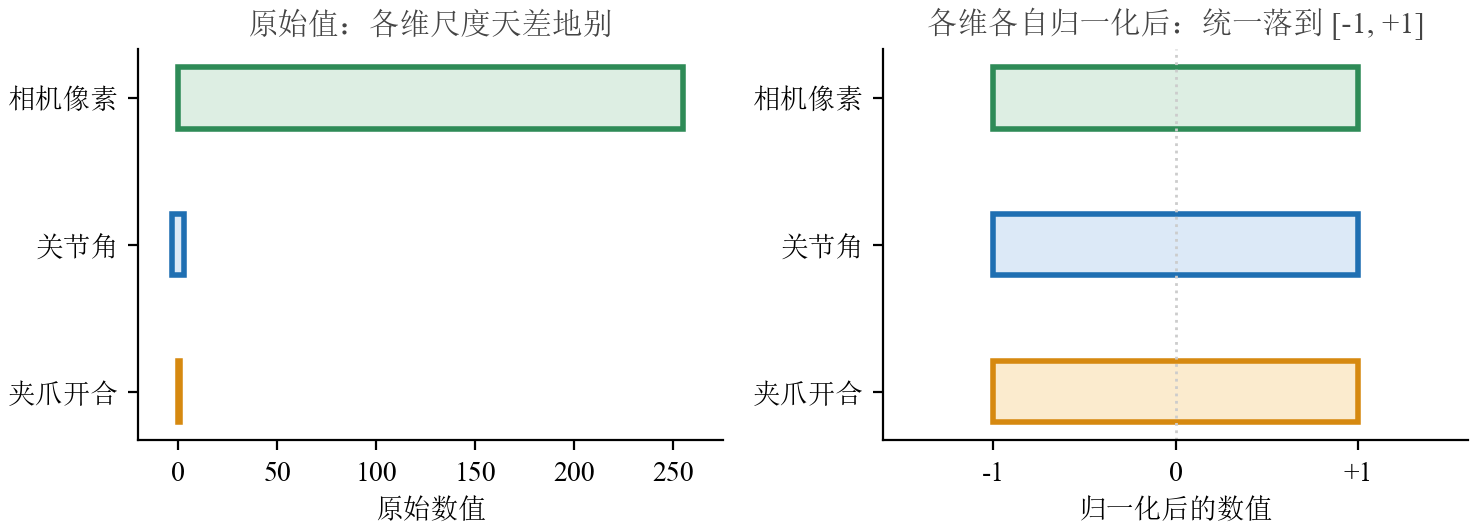
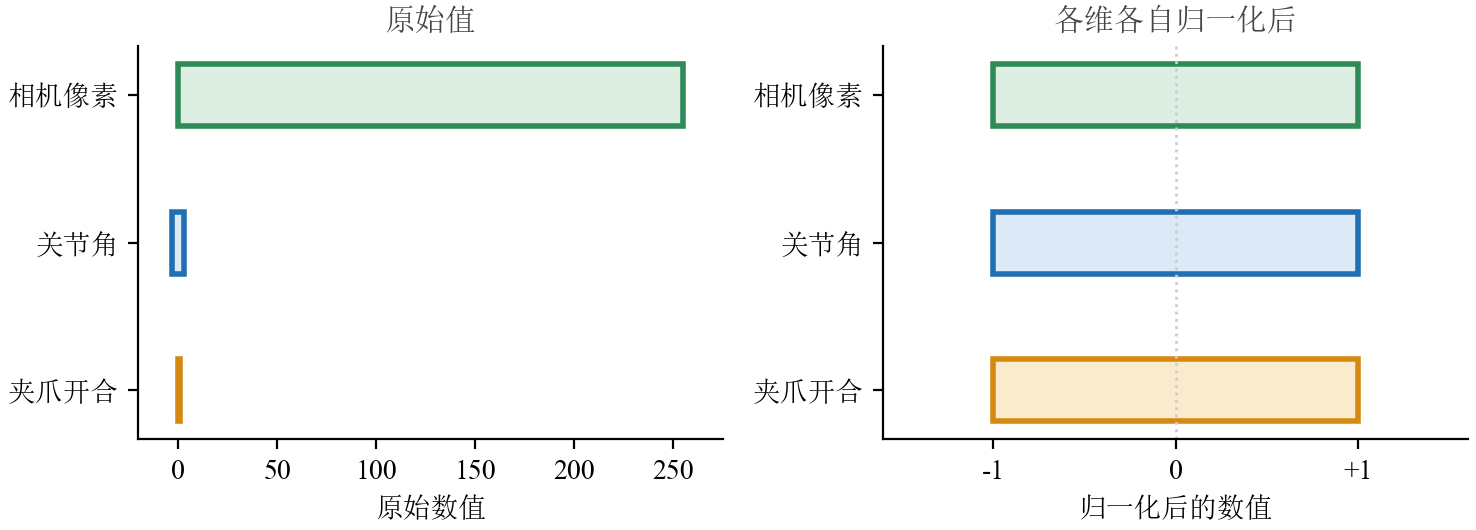
style(figures): 清完剩余不合规项，含删掉一张会引争议的排名图
teleop_tradeoff_map 整张删除。它把二十来个具体方法按我们自己的判断摆成散点，
等于公开给每个项目定坐标——图注自己都写着"坐标为相对位置示意，不是量化打分"，
但读者不会当示意看，被点名的团队完全可以说我们摆错了。2.6 节本就有一张十二行的
方法对比表，字段是定性档位而非排名，已经承担了同样的职责。正文改写成从表读得出
的说法（"表里没有哪一行同时占住在回路与极高便携"），读者可自行核对。

其余八张逐张渲出来看，清掉：
- 解释性语句 4 处：tradeoff-map 两块灰字、long-horizon 两句接缝说明
- 栏名里的解读：normalization-ranges 两栏改成纯栏名（去掉"天差地别"等）
- 彩色文字统一成黑：two_axes_map、alternating_ca_sa、interpolation_paths、
  flow_matching_path、normalization_ranges

判定合规未动：libero-success-curve（三段色带是分段名）、mismatch-failures
（两栏标题是栏名）、flow-matching-path（全是量名与公式）、long-horizon 的
勾叉红绿（评分色，承载意义）

收尾：D6 过、压字 0、讲8–16 图片引用零死链

diff --git a/assets/figures/render_diagrams.py b/assets/figures/render_diagrams.py
@@ -789,8 +789,6 @@ def long_horizon_paradigms():
             label(ax, cx + dx, y0 + 0.1325, name, INK, 10)
         # 两个策略之间是一道接缝：不是同一个模型，交接处要单独想办法。
         ax.plot([cx, cx], [y0 + 0.098, y0 + 0.168], color=RED, linewidth=1.4, linestyle=(0, (3, 2)))
-        label(ax, cx, y0 + 0.070, "两个模型，中间有接缝" if not with_gate else "接缝靠输入级适配接住",
-              RED, 10)
 
     cell(0.010, 0.575, "(a) 朴素端到端 VLA", (True, False, False),
          lambda cx, y0: one_policy(cx, y0, with_gate=False))
@@ -946,8 +944,8 @@ def normalization_ranges():
     for i, (name, lo, hi, color) in enumerate(rows):
         left.barh(i, hi - lo, left=lo, height=0.42, color=FILL[color], edgecolor=color, linewidth=2)
         right.barh(i, 2.0, left=-1.0, height=0.42, color=FILL[color], edgecolor=color, linewidth=2)
-    for axis, title, xlabel in ((left, "原始值：各维尺度天差地别", "原始数值"),
-                                (right, "各维各自归一化后：统一落到 [-1, +1]", "归一化后的数值")):
+    for axis, title, xlabel in ((left, "原始值", "原始数值"),
+                                (right, "各维各自归一化后", "归一化后的数值")):
         axis.set_yticks(range(len(rows)))
         axis.set_yticklabels([r[0] for r in rows], fontsize=10)
         axis.set_title(title, fontsize=11, color="#444444")
@@ -995,67 +993,6 @@ def scale_error_symptoms():
     right.text(20, 0.62, "实际执行", ha="center", fontsize=10, color=RED)
     fig.tight_layout()
     save(fig, "lecture08", "fig08-3-scale-error-symptoms")
-
-
-# ── 第9讲 2.1：采集方法的权衡地图 ───────────────────────────────────────
-# 2.1 那张表给的是逐字段属性；图要给的是**相对位置**——二十来个方法落在平面上，
-# 从左上到右下连成一条带，"越可执行越不可规模化"这件事才看得见。
-# 两条轴都取自那张表自己的列（机器人是否在回路 / 便携·可规模化）。
-def teleop_tradeoff_map():
-    fig, ax = plt.subplots(figsize=(7.6, 5.0))
-
-    # (x=机器人在回路的程度, y=可规模化程度, 名字, 标签相对点的偏移)
-    groups = [
-        (BLUE, "真机数据", [
-            (9.45, 1.5, "KineDex", (0.16, 0.00)), (9.05, 0.6, "KineSoft", (0.16, 0.00)),
-            (9.30, 2.6, "Mobile ALOHA", (0.16, 0.00)), (8.35, 3.2, "U-Arm（异构主从）", (0.16, 0.00)),
-            (7.95, 2.1, "TeleMoMa", (-0.16, 0.00))]),
-        (ORANGE, "通用接口遥操作", [
-            (7.35, 3.9, "Bunny-VisionPro", (-0.16, 0.00)),
-            (7.05, 4.8, "Open-TeleVision", (-0.16, 0.00)),
-            (6.60, 5.5, "OpenTeach", (0.16, 0.00)), (6.15, 4.4, "手柄 joycon", (-0.16, 0.00)),
-            (5.75, 6.4, "RoboTurk 手机众包", (0.16, 0.00))]),
-        (GREEN, "人类代理数据", [
-            (5.05, 5.6, "PIKA", (0.16, 0.00)), (4.75, 7.2, "UMI", (-0.16, 0.00)),
-            (4.30, 7.9, "FastUMI", (0.16, 0.00)), (4.10, 6.4, "AnyTeleop", (0.16, 0.00)),
-            (3.70, 7.0, "ARCap", (-0.16, 0.00)), (3.95, 5.2, "DOGlove", (-0.16, 0.00)),
-            (3.30, 5.9, "U-Arm Humanoid", (-0.16, 0.00)),
-            (2.95, 7.6, "HumanPlus", (-0.16, 0.00))]),
-        (GREY, "无机器人数据", [
-            (1.75, 8.9, "In-N-On", (0.16, 0.00)), (1.15, 9.6, "Ctrl-World", (0.16, 0.00))]),
-    ]
-
-    # 那条负相关带：从左上（轻、可规模化）到右下（重、可执行）。
-    ax.fill_between([0.4, 11.8], [10.6, 0.6], [8.4, -1.6], color="#F2F2F2", zorder=0)
-    ax.text(2.6, 3.1, "越往右下：轨迹越能直接执行，\n但越贵、越不便携\n\n"
-                      "越往左上：越轻越能规模化，\n但越需要重定向与后处理",
-            fontsize=10, color="#888888", ha="center", va="center", zorder=1)
-
-    for color, name, points in groups:
-        ax.scatter([p[0] for p in points], [p[1] for p in points], s=46,
-                   facecolor=FILL[color], edgecolor=color, linewidth=1.6, zorder=3)
-        for x, y, text, (dx, dy) in points:
-            ax.text(x + dx, y + dy, text, fontsize=10, color=color, zorder=4,
-                    ha="left" if dx > 0 else "right", va="center")
-        ax.scatter([], [], s=46, facecolor=FILL[color], edgecolor=color, linewidth=1.6, label=name)
-
-    # 本课入口单独高亮：同一张图上标出"我们从哪儿进"。
-    ax.scatter([8.75], [1.9], s=190, facecolor=FILL[RED], edgecolor=RED, linewidth=2.2,
-               marker="*", zorder=5)
-    ax.annotate("SO-101 主从臂（本课入口）", xy=(8.62, 1.9), xytext=(6.5, 1.1),
-                fontsize=10, color=RED, ha="right", va="center", zorder=5,
-                arrowprops=dict(arrowstyle="->", color=RED, linewidth=1.2))
-
-    ax.set_xlabel("机器人在回路的程度（左：完全不在　→　右：全程在回路）", fontsize=10)
-    ax.set_ylabel("便携 / 可规模化程度", fontsize=10)
-    ax.set_xlim(0.3, 11.8); ax.set_ylim(-0.4, 10.6)
-    ax.set_xticks([]); ax.set_yticks([])
-    ax.legend(fontsize=10, frameon=False, ncol=4, loc="upper center",
-              bbox_to_anchor=(0.5, 1.10), handletextpad=0.3, columnspacing=1.1)
-    for side in ("top", "right"):
-        ax.spines[side].set_visible(False)
-    fig.tight_layout()
-    save(fig, "lecture09", "fig09-2-teleop-tradeoff-map")
 
 
 # ── 第9讲 3.1：LeRobot 的分层与 lerobot-record 穿过哪几层 ─────────────────
@@ -1531,14 +1468,14 @@ def interpolation_paths():
     ax.scatter([0, 1], [a, b], s=58, facecolor=FILL[RED], edgecolor=RED, linewidth=2.2, zorder=6)
     t = 0.55
     ax.scatter([t], [(1 - t) * a + t * b], s=58, color=RED, zorder=6)
-    ax.text(-0.04, a, "$z_0$", ha="right", va="center", fontsize=11, color=RED)
-    ax.text(1.04, b, "$z_1$", ha="left", va="center", fontsize=11, color=RED)
+    ax.text(-0.04, a, "$z_0$", ha="right", va="center", fontsize=11, color=INK)
+    ax.text(1.04, b, "$z_1$", ha="left", va="center", fontsize=11, color=INK)
     ax.text(t - 0.02, (1 - t) * a + t * b + 0.34, "$z_t=(1-t)\\,z_0+t\\,z_1$",
             ha="center", fontsize=10, color=RED, zorder=7,
             bbox=dict(facecolor="white", edgecolor="none", pad=1.5))
 
-    ax.text(0, 2.62, "噪声 $\\mathcal{N}(0, I)$", ha="center", fontsize=10, color=BLUE)
-    ax.text(1, 2.62, "数据分布（双峰）", ha="center", fontsize=10, color=GREEN)
+    ax.text(0, 2.62, "噪声 $\\mathcal{N}(0, I)$", ha="center", fontsize=10, color=INK)
+    ax.text(1, 2.62, "数据分布（双峰）", ha="center", fontsize=10, color=INK)
     ax.set_xlim(-0.24, 1.24); ax.set_ylim(-3.4, 2.9)
     ax.set_xticks([]); ax.set_yticks([]); ax.axis("off")
     fig.tight_layout()
@@ -1637,13 +1574,13 @@ def alternating_ca_sa():
     ]
     w = 0.245
     for x0, color, title, blocks, note in panels:
-        label(ax, x0 + w / 2, 0.888, title, color, 11, True)
+        label(ax, x0 + w / 2, 0.888, title, INK, 11, True)
         for i, name in enumerate(blocks):
             y = 0.355 + i * 0.125
             is_ca = name.startswith("CA")
             plain_box(ax, x0 + 0.030, y, w - 0.06, 0.100, color,
                       fill=FILL[color] if is_ca else "#FFFFFF")
-            label(ax, x0 + w / 2, y + 0.050, name, color, 10)
+            label(ax, x0 + w / 2, y + 0.050, name, INK, 10)
             # CA 块的 key/value 来自 VLM：从左侧引一条横向虚线加箭头进来。
             if is_ca:
                 ax.plot([0.147, x0 + 0.026], [y + 0.050, y + 0.050], color=GREY,
@@ -1751,7 +1688,7 @@ def two_axes_map():
         cy = y0 + (i + 0.5) * ch + (0.055 if (j, i) == (2, 0) else 0) - k * 0.110
         plain_box(ax, x0 + (j + 0.5) * cw - 0.115, cy - 0.047, 0.23, 0.094, color,
                   lw=2.2 if main else 1.6)
-        label(ax, x0 + (j + 0.5) * cw, cy, text, color, 10, main)
+        label(ax, x0 + (j + 0.5) * cw, cy, text, INK, 10, main)
 
     label(ax, 0.5, 0.075, "参数更新范围：越往右，被更新的参数越少", "#555555", 10)
     label(ax, 0.012, 0.905, "训练信号\n↑", "#888888", 10, ha="left")
@@ -1822,7 +1759,6 @@ chunking_vs_ensemble()
 libero_success_curve()
 flow_matching_path()
 interpolation_paths()
-teleop_tradeoff_map()
 lerobot_layers()
 record_loop_timing()
 policy_spectrum()
